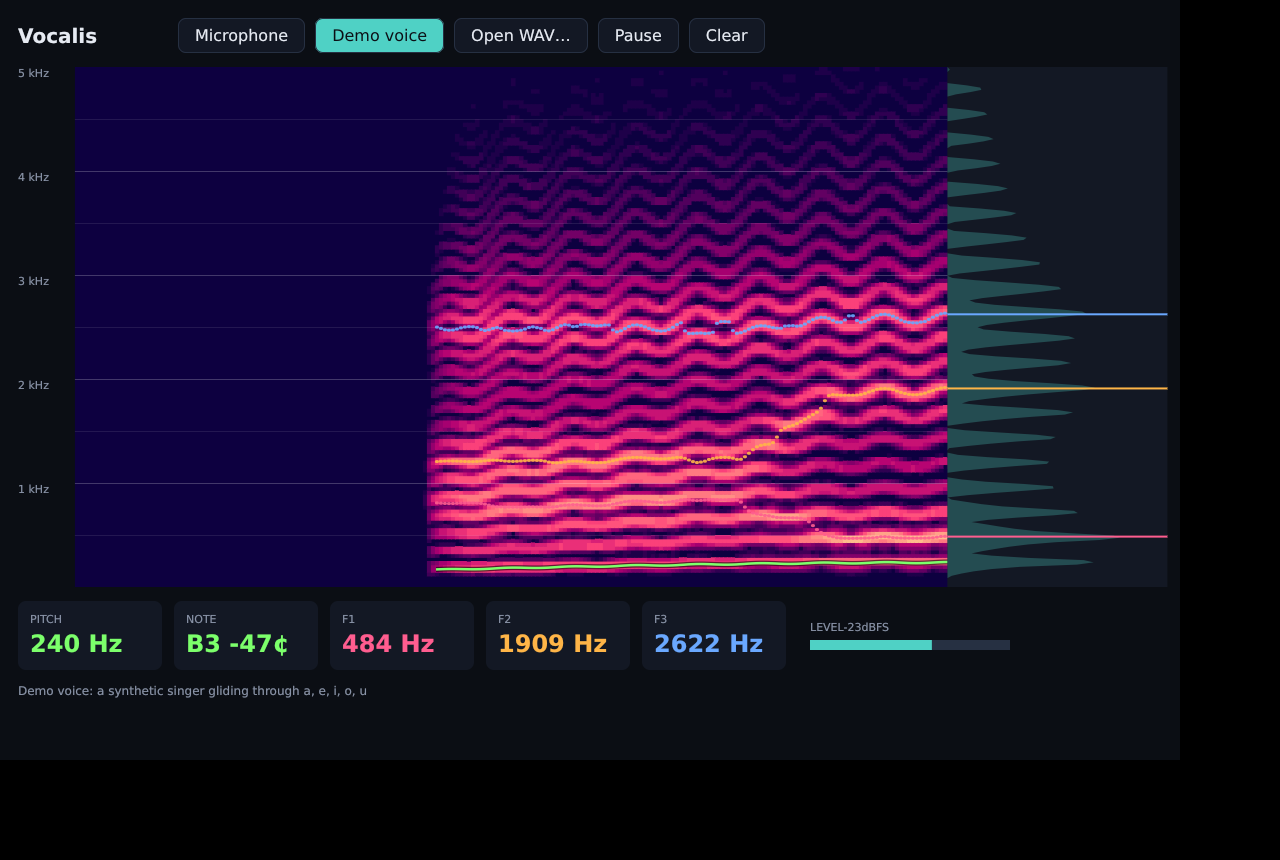
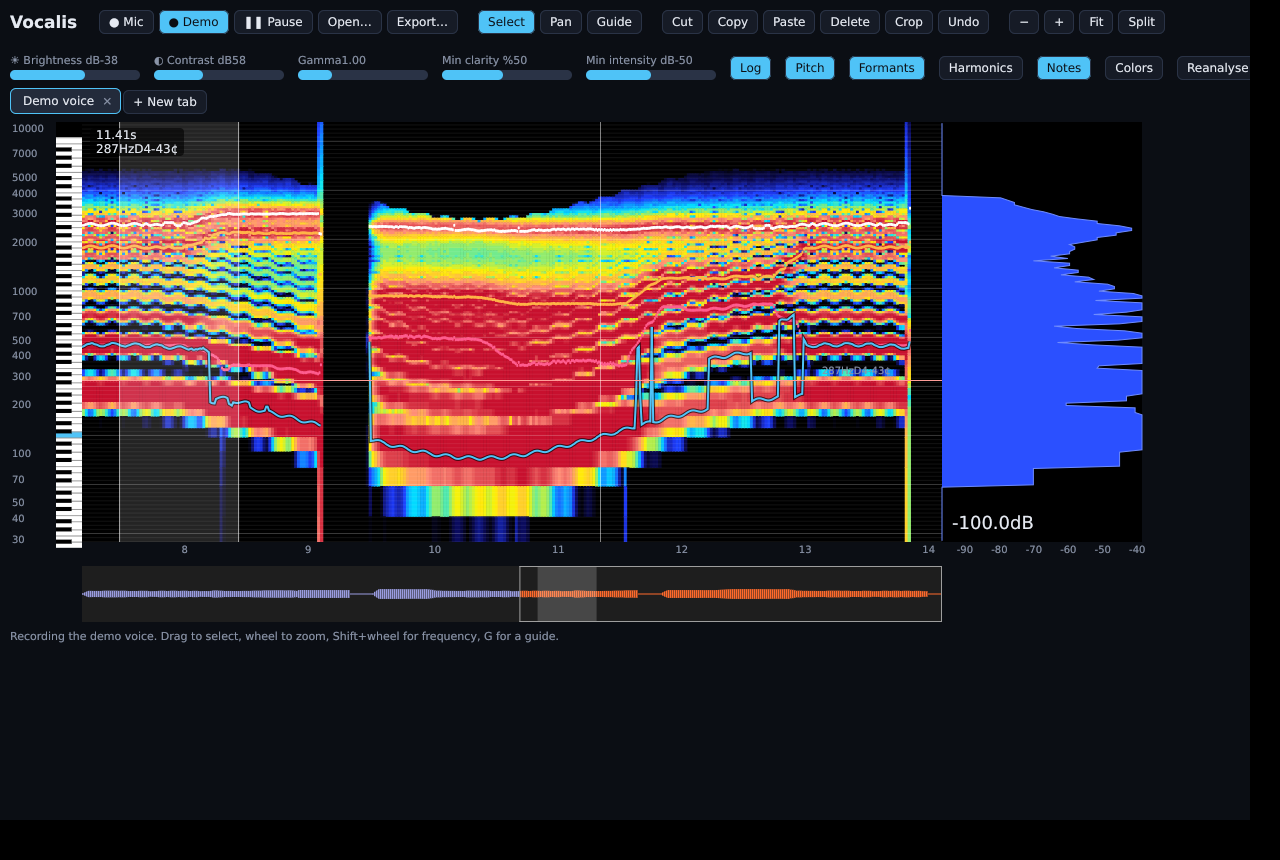
Vocalis: real-time demo feed, README for the studio features, new screenshot
Claude-Session: https://claude.ai/code/session_01DwgKu7E3sRFLGrFEm1B7U6

diff --git a/apps/vocalis/README.md b/apps/vocalis/README.md
@@ -10,12 +10,23 @@ A voice analysis studio written in Silk with Loom and drawn with WebGPU in a nat
 - **Spectrum slice**: the current spectrum next to the spectrogram, with the formants marked
 - **Level**: RMS in dBFS with a meter
 
+Interaction:
+
+- **Tabs and split view:** several recordings open at once (`+ New tab`, `Open…`), and `Split` shows two of them stacked.
+- **Zoom and pan:** the wheel zooms time at the pointer, Shift+wheel zooms frequency, and Alt+wheel or a horizontal scroll pans. Drag with the Pan tool (or a non-left button, or Alt) to pan. Drag on the overview to move the view. `−` `+` `Fit`, `=` `-` `0`, and the arrow keys do the same.
+- **Display:** Brightness (top dB) and Contrast (dynamic range dB) as in the colormap settings of voice tools, plus Gamma, Log/linear scale, note lines, three colormaps, and pitch, formant and harmonic overlays.
+- **Pitch detection:** Min clarity and Min intensity; `Reanalyse` applies them to existing audio.
+- **Guides:** `G` or the Guide tool places a frequency guide labelled with Hz and note name. Drag a guide to move it, double-click it to remove it, or use `Clear guides`.
+- **Editing:** drag to select, then Cut ⌘X, Copy ⌘C, Paste ⌘V, Delete, Crop ⌘K, Undo ⌘Z and Select all ⌘A. `Export…` writes a 16-bit WAV.
+
 Sources: **Demo voice** (a built-in synthetic singer gliding through a-e-i-o-u with vibrato),
 **Open WAV…** (16-bit PCM or 32-bit float, any channel count or rate) and **Microphone**.
 
 | File | What it holds |
 | --- | --- |
-| `src/vocalis.silk` | the Loom program: model, update, view, drawings, synthetic singer |
+| `src/studio.silk` | the Loom program: tabs, panes, interaction, editing, view |
+| `src/render.silk` | spectrogram, piano, slice, overview drawings and axis ticks |
+| `src/track.silk` | a recording and its analysis; segment/splice for editing |
 | `src/dsp.silk` | FFT, Hann window, dB spectrum, RMS, YIN pitch, LPC formants |
 | `src/source.silk` | the `Sound` service the program asks for samples |
 | `src/main.silk` | the native window, the machine's `Sound` (WAV decoding, microphone) |
